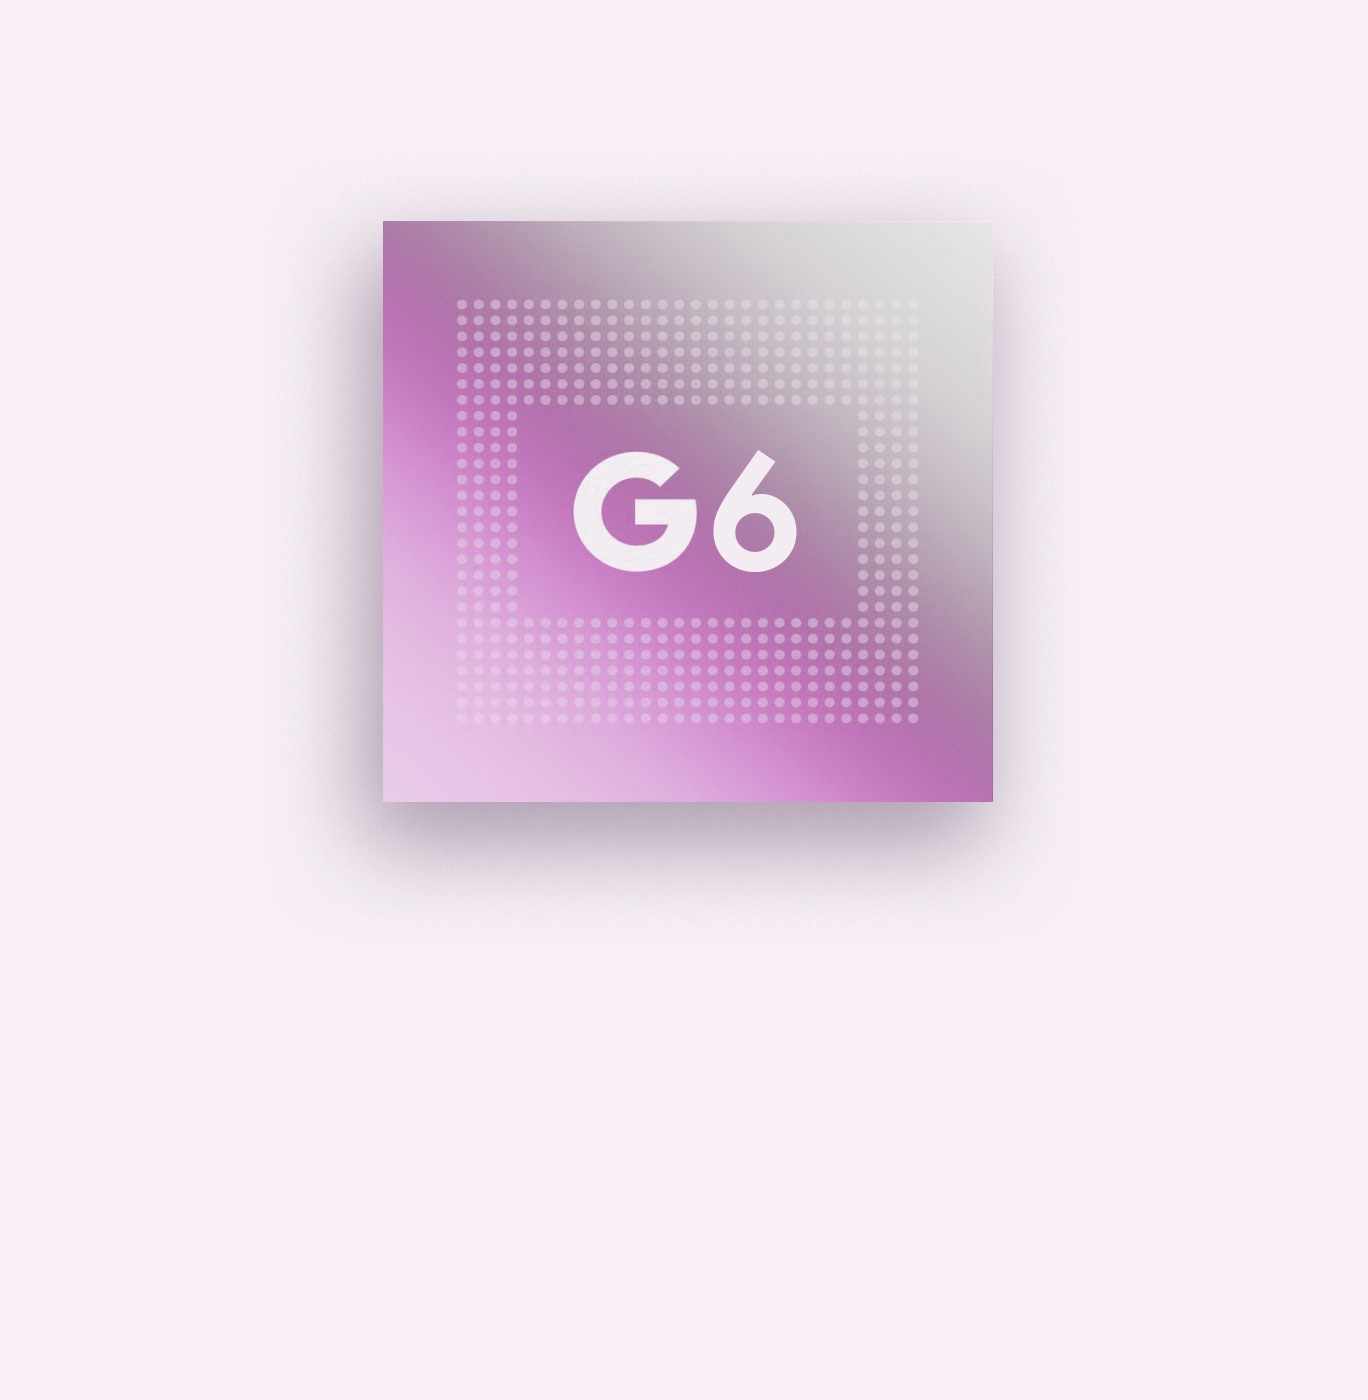
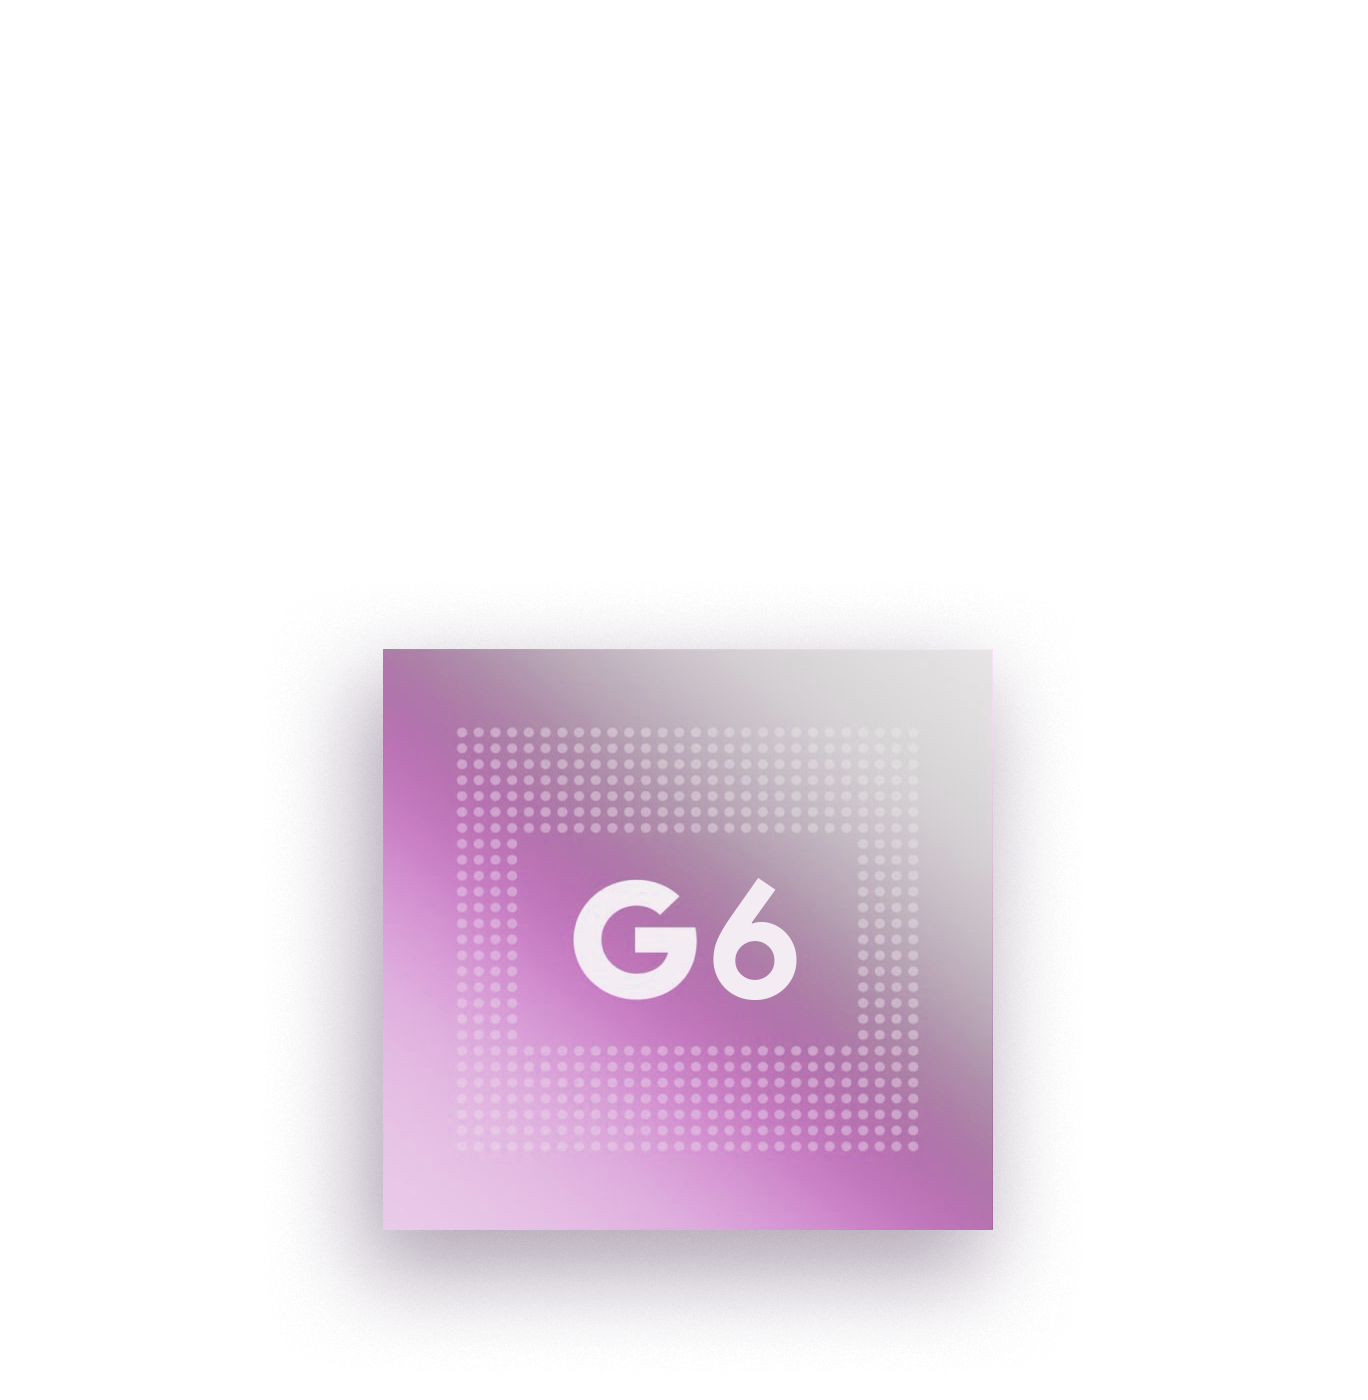
main highlights section done

diff --git a/src/components/IntroHighlights/index.tsx b/src/components/IntroHighlights/index.tsx
@@ -1,8 +1,13 @@
+import "./styles.css";
+//
 import fuchsiaIcon from "@/assets/fuchsia.svg";
 import tensorIcon from "@/assets/tensor.svg";
 import geminiIcon from "@/assets/gemini.svg";
 import devicesIcon from "@/assets/devices.svg";
-import "./styles.css";
+//
+import deskView from "@/assets/desk-view.png";
+import whale from "@/assets/whale.png";
+import tensorChip from "@/assets/tensor-chip.png";
 
 export default function IntroHighlights() {
 	return (
@@ -28,6 +33,23 @@ export default function IntroHighlights() {
 				<div>
 					<img src={devicesIcon} alt="" />
 					<p>Integrates with other Pixel devices.</p>
+				</div>
+			</div>
+
+			<div className="image-highlights">
+				<div className="highlight bg-product desk-view">
+					<p>All in one package for any workflow.</p>
+					<img src={deskView} alt="" />
+				</div>
+
+				<div className="highlight bg-product tensor-chip">
+					<p>Powerful and secured by Tensor G6.</p>
+					<img src={tensorChip} alt="" />
+				</div>
+
+				<div className="highlight bg-product customize">
+					<p>Playfully customizable.</p>
+					<img src={whale} alt="" />
 				</div>
 			</div>
 		</div>

diff --git a/src/components/IntroHighlights/styles.css b/src/components/IntroHighlights/styles.css
@@ -8,6 +8,10 @@
 	font-weight: 600 !important;
 }
 
+.highlights-row {
+	margin-bottom: 8rem;
+}
+
 .highlights-row,
 .highlights-row div {
 	display: flex;
@@ -27,4 +31,46 @@
 .highlights-row img {
 	width: 3rem;
 	height: 3rem;
+}
+
+/* bigger image highlights */
+
+.image-highlights {
+	font-size: 2rem;
+	font-weight: 600;
+	display: flex;
+	gap: 1rem;
+	flex-wrap: wrap;
+}
+
+.image-highlights .desk-view {
+	width: 100%;
+}
+
+.image-highlights .tensor-chip {
+	width: 45%;
+}
+
+.image-highlights .customize {
+	/* width: 50%; */
+	flex: 1;
+}
+
+.image-highlights .highlight {
+	position: relative;
+	border-radius: 28px;
+	overflow: hidden;
+	text-align: left;
+	text-wrap: balance;
+}
+
+.image-highlights p {
+	position: absolute;
+	top: 0rem;
+	left: 0rem;
+	padding: 2.5rem;
+}
+
+.image-highlights img {
+	max-width: 100%;
 }

diff --git a/src/components/IntroHeader/index.tsx b/src/components/IntroHeader/index.tsx
@@ -66,7 +66,7 @@ export default function IntroHeader() {
 	};
 
 	return (
-		<div className="intro-header">
+		<div className="intro-header bg-product">
 			<div className="copy-area">
 				<h2 className="display-text">Now you're playing with power.</h2>
 				<div>

diff --git a/src/components/IntroHeader/styles.css b/src/components/IntroHeader/styles.css
@@ -3,7 +3,6 @@
 	height: 600px;
 	border-radius: 28px;
 	/* background-color: #e5e8ef; */
-	background-color: #f7eff5;
 	overflow: hidden;
 	margin: 0;
 	position: relative;

diff --git a/src/index.css b/src/index.css
@@ -70,3 +70,7 @@ button:hover {
 	padding: 1rem;
 	max-width: 1200px;
 }
+
+.bg-product {
+	background-color: #f7eff5;
+}
